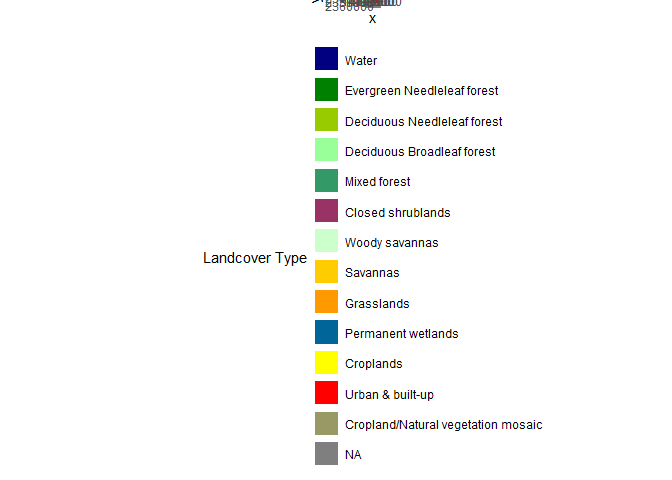
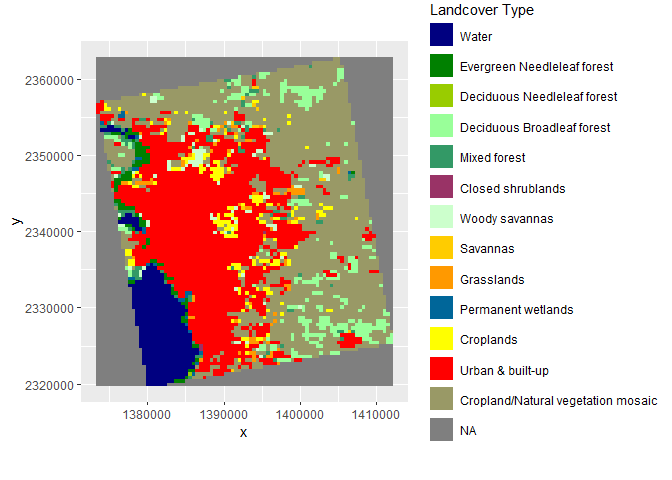
fixed legend position

diff --git a/week_10/case_study_10.md b/week_10/case_study_10.md
@@ -151,7 +151,7 @@ gplot(lulc)+
                     labels=levels(lulc)[[1]]$landcover,
                     name="Landcover Type")+
   coord_equal()+
-  theme(legend.position = "bottom")+
+  theme(legend.position = "right")+
   guides(fill=guide_legend(ncol=1,byrow=TRUE))
 ```
 
@@ -218,7 +218,7 @@ ggplot(data = extractpoint, aes(x = date, y = V1))+
 
 ![](case_study_10_files/figure-gfm/unnamed-chunk-11-1.png)<!-- -->
 
-\#PART 2
+# PART 2
 
 ``` r
 tmonth = as.numeric(format(getZ(lst),"%m"))
